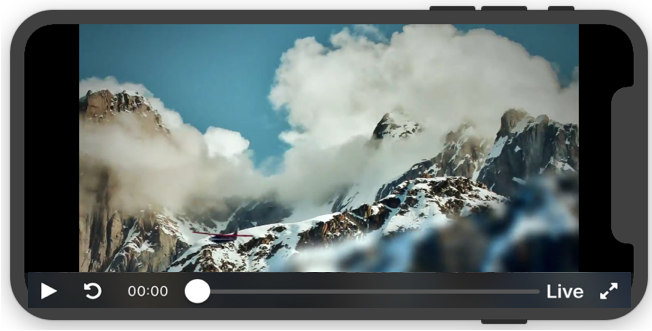
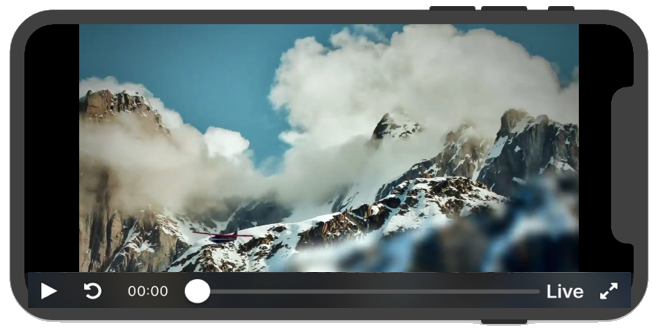
add figure

diff --git a/doc-assets/node/15262-sdk-live/15262.html b/doc-assets/node/15262-sdk-live/15262.html
@@ -15,6 +15,10 @@
 <p>
 	For a complete list of options for delivering live streams, see the <a href="https://support.brightcove.com/node/11397">Delivering Live Streams</a> document.
 </p>
+<figure class="bcls-figure">
+  <img class="bcls-image--no-border" src="//learning-services-media.brightcove.com/doc-assets/device-sdks/guides/live/live-playback-iphone.png" alt="DVR Live">
+  <figcaption class="bcls-caption--image">DVR Live</figcaption>
+</figure>
 </section>
 
 <section class="bcls-section">
